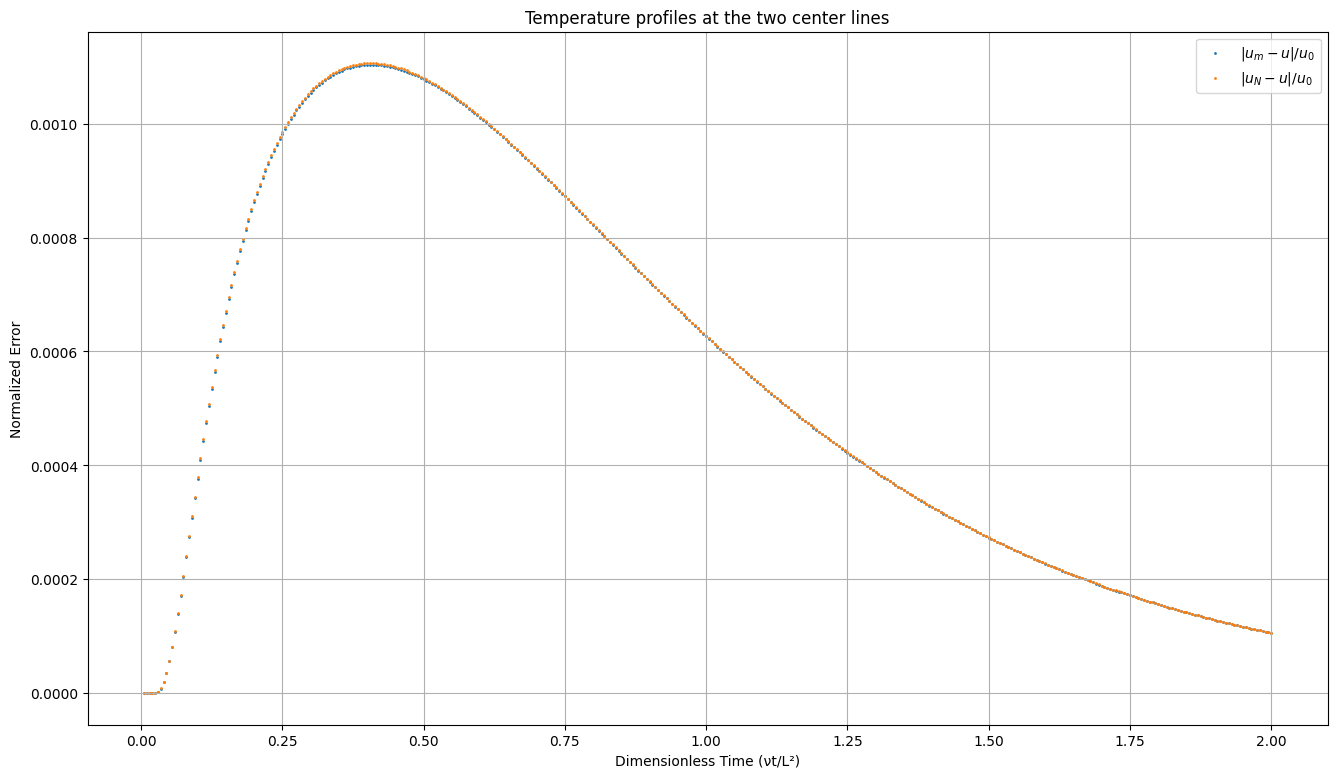
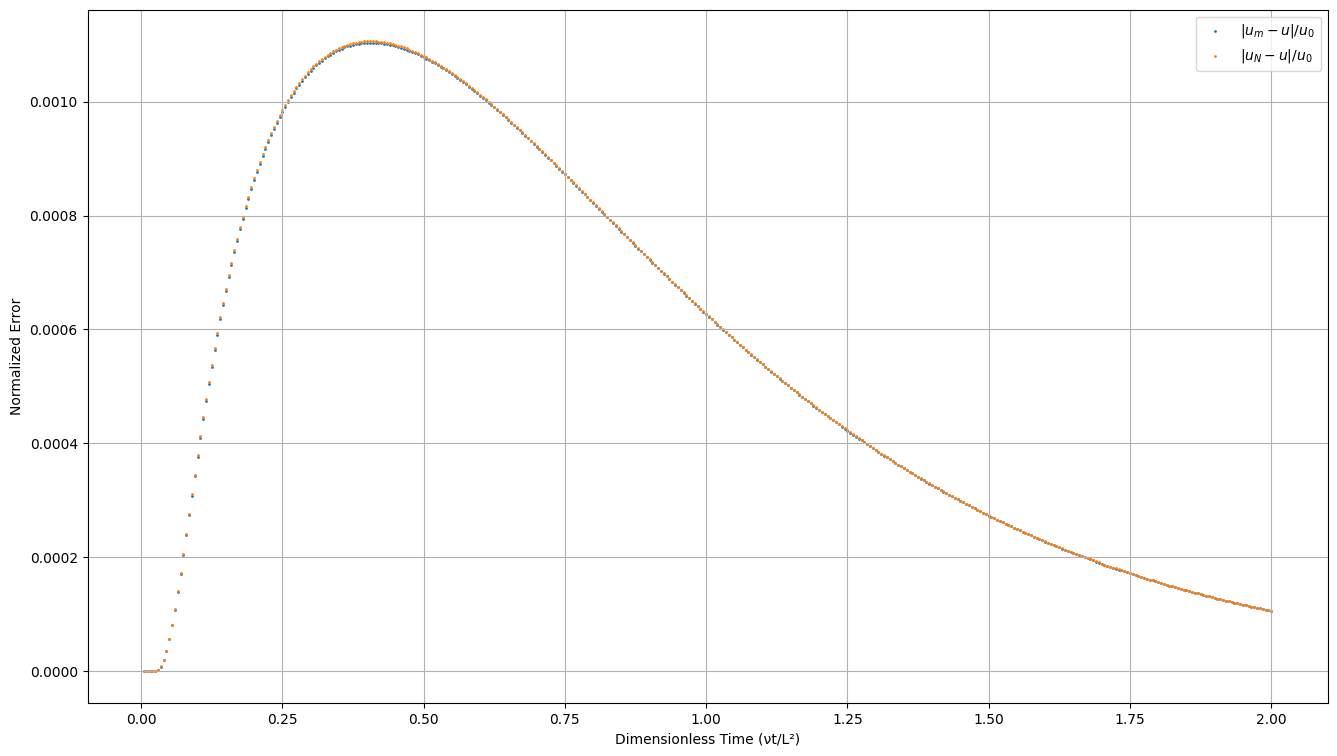
:adhesive_bandage: Forget to change the title

diff --git a/mae5005/code/4/main.py b/mae5005/code/4/main.py
@@ -23,16 +23,12 @@ if __name__ == '__main__':
     alpha, nutL = 0.32, 2.0
     N, L, nu = 16, 1.0, 0.1
     nt, dt = calc(alpha, nutL, N, L, nu)
-    stdout, _ = fortran.communicate(f'{N}\n{nt}\n{L}\n{nu}\n{0.05}')
-    print(repr(f'{N}\n{nt}\n{L}\n{nu}\n{dt}'))
-    print(repr(stdout.decode()))
-    exit()
+    fortran.communicate(f'{N}\n{nt}\n{L}\n{nu}\n{0.05}')
     un, ua, um = map(np.loadtxt, ['numerical.dat', 'analytical.dat', 'modified.dat'])
     times = nu * (np.arange(nt)+1) * dt / L**2
     fig, ax = plt.subplots(1, figsize=(16, 9))
     ax.scatter(times, np.abs((um-ua)[:, N//2+1]), s=1, label=r'$|u_m-u|/u_0$')
     ax.scatter(times, np.abs((un-ua)[:, N//2+1]), s=1, label=r'$|u_N-u|/u_0$')
-    ax.set_title('Temperature profiles at the two center lines')
     ax.set_xlabel('Dimensionless Time (νt/L²)')
     ax.set_ylabel('Normalized Error')
     ax.grid()
